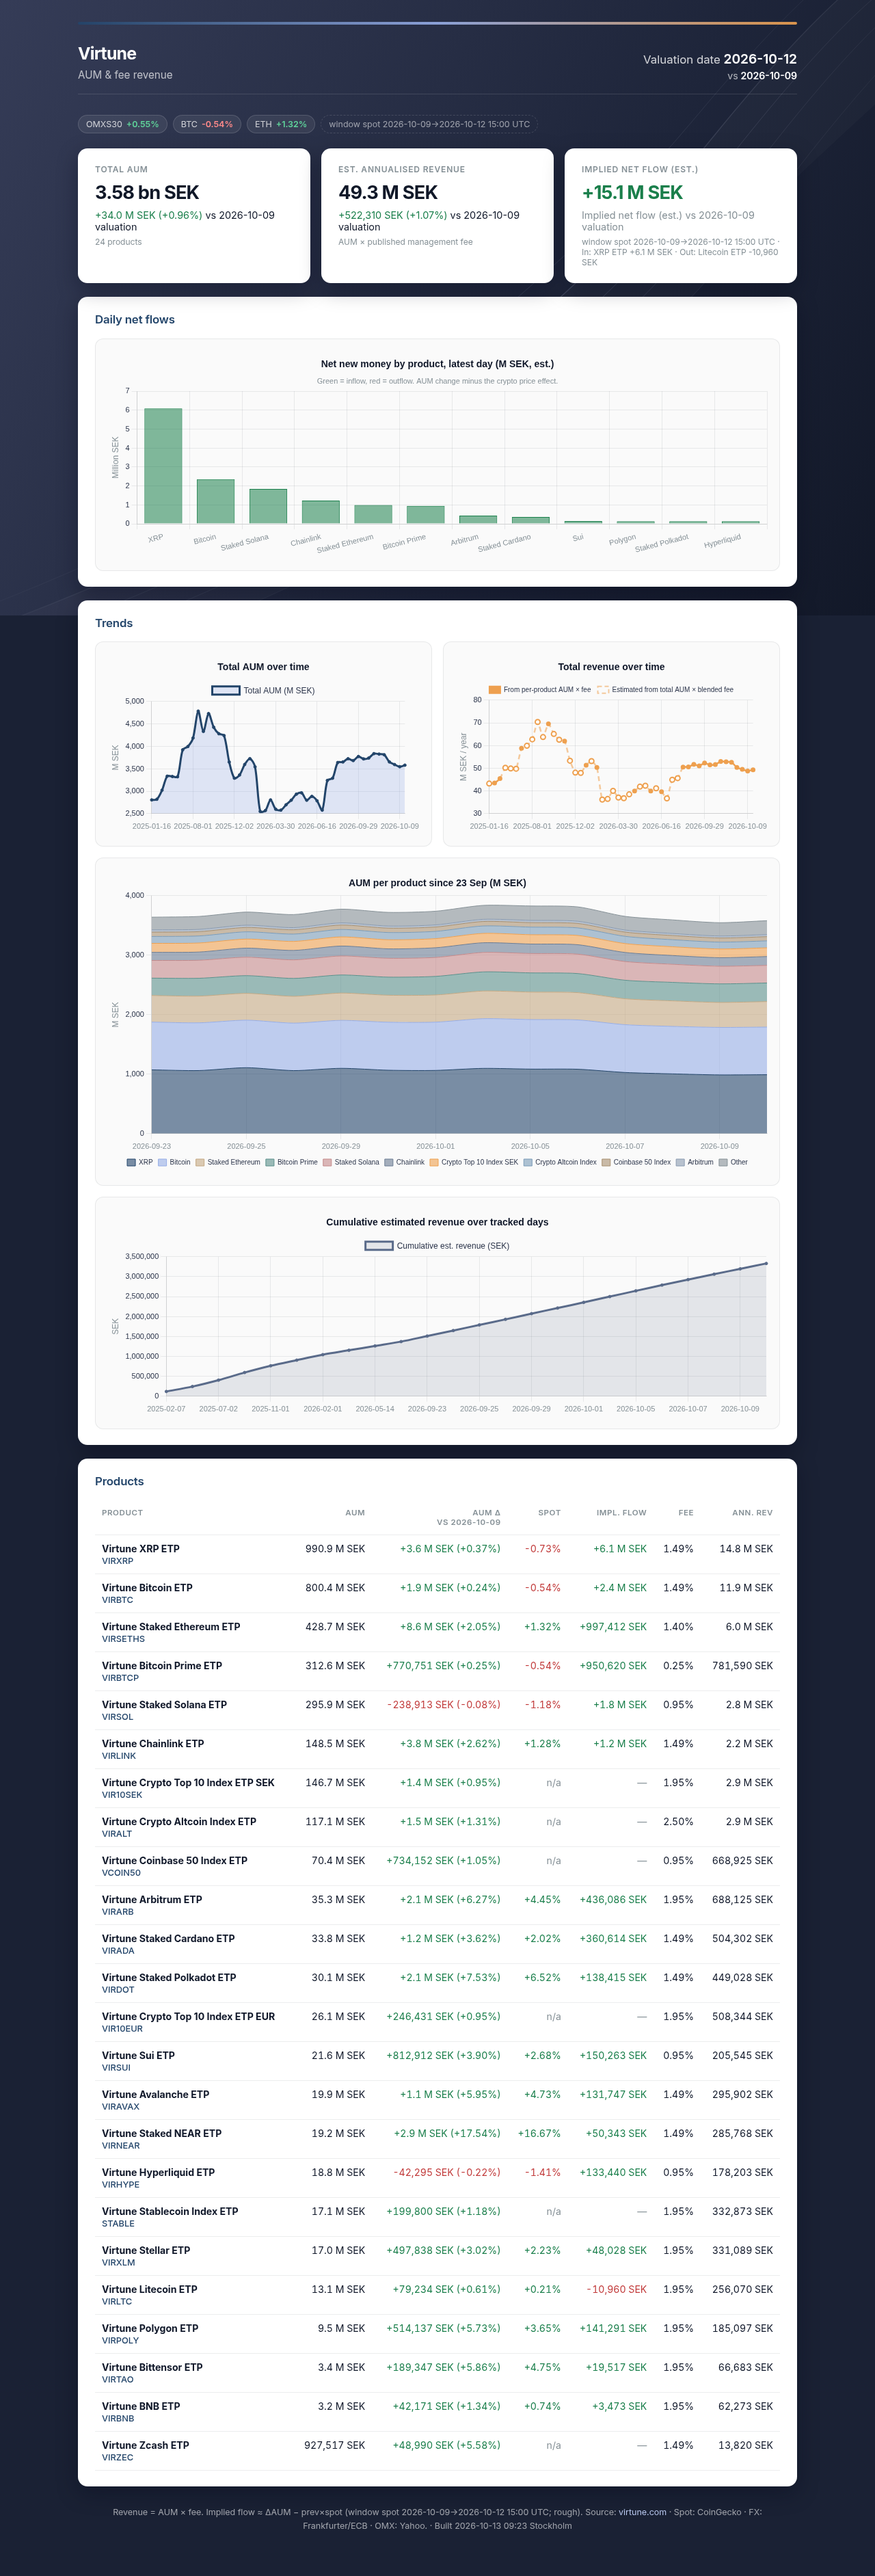
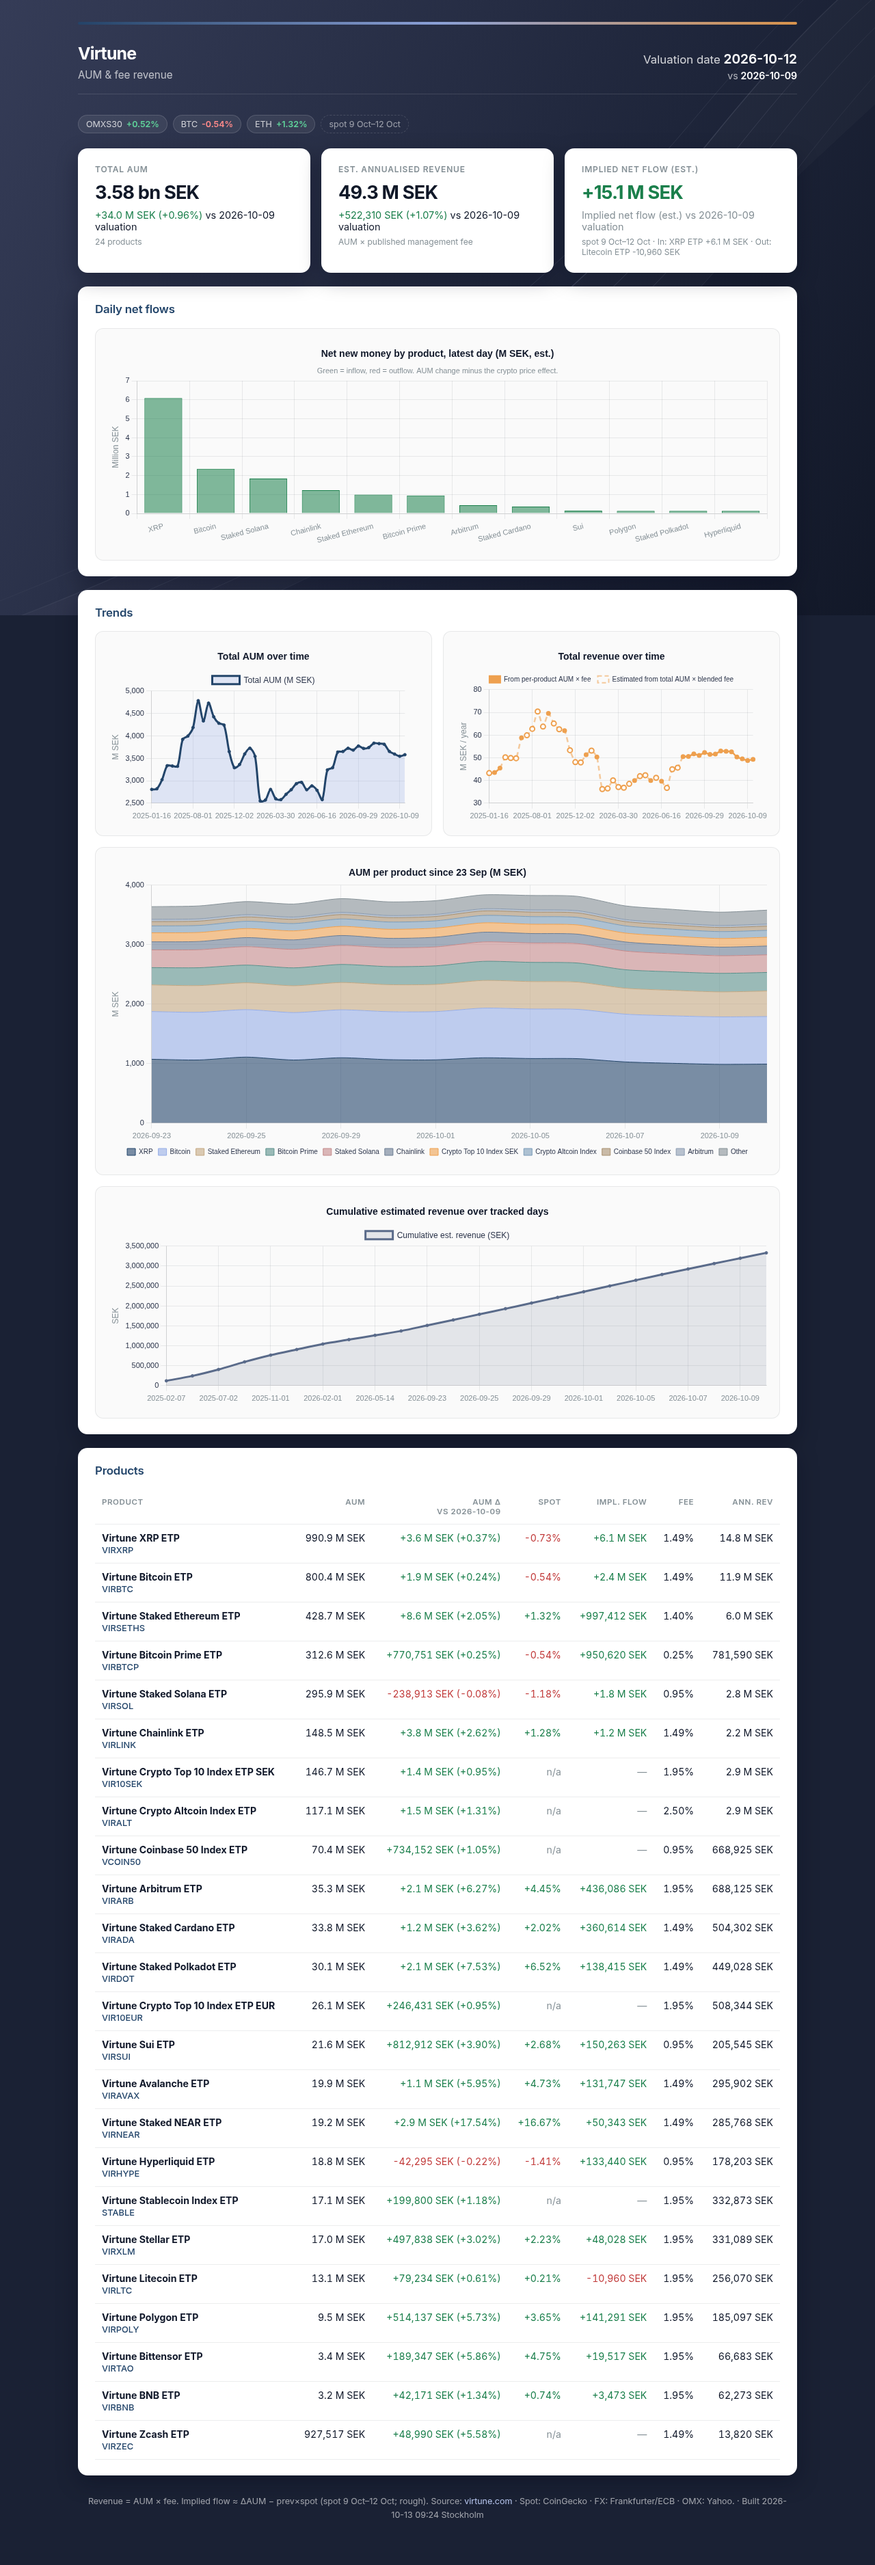
Update dashboard 2026-10-13 09:25 CEST

diff --git a/index.html b/index.html
@@ -253,7 +253,7 @@
     </div>
   </header>
 
-  <div class="market" title="Market context · spot is window spot 2026-10-09→2026-10-12 15:00 UTC"><span class="chip" title="Yahoo ^OMX">OMXS30 <strong class="up">+0.55%</strong></span><span class="chip" title="window spot 2026-10-09→2026-10-12 15:00 UTC">BTC <strong class="down">-0.54%</strong></span><span class="chip" title="window spot 2026-10-09→2026-10-12 15:00 UTC">ETH <strong class="up">+1.32%</strong></span><span class="chip muted spot-note">window spot 2026-10-09→2026-10-12 15:00 UTC</span></div>
+  <div class="market" title="Market context · spot is spot 9 Oct–12 Oct"><span class="chip" title="Yahoo ^OMX">OMXS30 <strong class="up">+0.52%</strong></span><span class="chip" title="spot 9 Oct–12 Oct">BTC <strong class="down">-0.54%</strong></span><span class="chip" title="spot 9 Oct–12 Oct">ETH <strong class="up">+1.32%</strong></span><span class="chip muted spot-note">spot 9 Oct–12 Oct</span></div>
 
   <div class="cards">
     <div class="card">
@@ -272,7 +272,7 @@
       <div class="label">Implied net flow (est.)</div>
       <div class="value"><span class="up">+15.1 M SEK</span></div>
       <div class="delta muted">Implied net flow (est.) vs 2026-10-09 valuation</div>
-      <div class="usd" style="margin-top:6px">window spot 2026-10-09→2026-10-12 15:00 UTC · In: XRP ETP +6.1 M SEK · Out: Litecoin ETP -10,960 SEK</div>
+      <div class="usd" style="margin-top:6px">spot 9 Oct–12 Oct · In: XRP ETP +6.1 M SEK · Out: Litecoin ETP -10,960 SEK</div>
     </div>
   </div>
 
@@ -304,7 +304,7 @@
             <th>Product</th>
             <th style="text-align:right">AUM</th>
             <th style="text-align:right">AUM Δ<br>vs 2026-10-09</th>
-            <th style="text-align:right" title="window spot 2026-10-09→2026-10-12 15:00 UTC">Spot</th>
+            <th style="text-align:right" title="spot 9 Oct–12 Oct">Spot</th>
             <th style="text-align:right" title="ΔAUM − prev×spot (est.)">Impl. flow</th>
             <th style="text-align:right">Fee</th>
             <th style="text-align:right">Ann. rev</th>
@@ -316,7 +316,7 @@
             <span class="ticker">VIRXRP</span></td>
           <td class="num">990.9 M<span class="unit"> SEK</span></td>
           <td class="num"><span class="up">+3.6 M<span class="unit"> SEK</span> (+0.37%)</span></td>
-          <td class="num" title="window spot 2026-10-09→2026-10-12 15:00 UTC"><span class="down">-0.73%</span></td>
+          <td class="num" title="spot 9 Oct–12 Oct"><span class="down">-0.73%</span></td>
           <td class="num"><span class="up" title="Implied net flow (est.)">+6.1 M<span class="unit"> SEK</span></span></td>
           <td class="num">1.49%</td>
           <td class="num">14.8 M<span class="unit"> SEK</span></td>
@@ -326,7 +326,7 @@
             <span class="ticker">VIRBTC</span></td>
           <td class="num">800.4 M<span class="unit"> SEK</span></td>
           <td class="num"><span class="up">+1.9 M<span class="unit"> SEK</span> (+0.24%)</span></td>
-          <td class="num" title="window spot 2026-10-09→2026-10-12 15:00 UTC"><span class="down">-0.54%</span></td>
+          <td class="num" title="spot 9 Oct–12 Oct"><span class="down">-0.54%</span></td>
           <td class="num"><span class="up" title="Implied net flow (est.)">+2.4 M<span class="unit"> SEK</span></span></td>
           <td class="num">1.49%</td>
           <td class="num">11.9 M<span class="unit"> SEK</span></td>
@@ -336,7 +336,7 @@
             <span class="ticker">VIRSETHS</span></td>
           <td class="num">428.7 M<span class="unit"> SEK</span></td>
           <td class="num"><span class="up">+8.6 M<span class="unit"> SEK</span> (+2.05%)</span></td>
-          <td class="num" title="window spot 2026-10-09→2026-10-12 15:00 UTC"><span class="up">+1.32%</span></td>
+          <td class="num" title="spot 9 Oct–12 Oct"><span class="up">+1.32%</span></td>
           <td class="num"><span class="up" title="Implied net flow (est.)">+997,412<span class="unit"> SEK</span></span></td>
           <td class="num">1.40%</td>
           <td class="num">6.0 M<span class="unit"> SEK</span></td>
@@ -346,7 +346,7 @@
             <span class="ticker">VIRBTCP</span></td>
           <td class="num">312.6 M<span class="unit"> SEK</span></td>
           <td class="num"><span class="up">+770,751<span class="unit"> SEK</span> (+0.25%)</span></td>
-          <td class="num" title="window spot 2026-10-09→2026-10-12 15:00 UTC"><span class="down">-0.54%</span></td>
+          <td class="num" title="spot 9 Oct–12 Oct"><span class="down">-0.54%</span></td>
           <td class="num"><span class="up" title="Implied net flow (est.)">+950,620<span class="unit"> SEK</span></span></td>
           <td class="num">0.25%</td>
           <td class="num">781,590<span class="unit"> SEK</span></td>
@@ -356,7 +356,7 @@
             <span class="ticker">VIRSOL</span></td>
           <td class="num">295.9 M<span class="unit"> SEK</span></td>
           <td class="num"><span class="down">-238,913<span class="unit"> SEK</span> (-0.08%)</span></td>
-          <td class="num" title="window spot 2026-10-09→2026-10-12 15:00 UTC"><span class="down">-1.18%</span></td>
+          <td class="num" title="spot 9 Oct–12 Oct"><span class="down">-1.18%</span></td>
           <td class="num"><span class="up" title="Implied net flow (est.)">+1.8 M<span class="unit"> SEK</span></span></td>
           <td class="num">0.95%</td>
           <td class="num">2.8 M<span class="unit"> SEK</span></td>
@@ -366,7 +366,7 @@
             <span class="ticker">VIRLINK</span></td>
           <td class="num">148.5 M<span class="unit"> SEK</span></td>
           <td class="num"><span class="up">+3.8 M<span class="unit"> SEK</span> (+2.62%)</span></td>
-          <td class="num" title="window spot 2026-10-09→2026-10-12 15:00 UTC"><span class="up">+1.28%</span></td>
+          <td class="num" title="spot 9 Oct–12 Oct"><span class="up">+1.28%</span></td>
           <td class="num"><span class="up" title="Implied net flow (est.)">+1.2 M<span class="unit"> SEK</span></span></td>
           <td class="num">1.49%</td>
           <td class="num">2.2 M<span class="unit"> SEK</span></td>
@@ -376,7 +376,7 @@
             <span class="ticker">VIR10SEK</span></td>
           <td class="num">146.7 M<span class="unit"> SEK</span></td>
           <td class="num"><span class="up">+1.4 M<span class="unit"> SEK</span> (+0.95%)</span></td>
-          <td class="num" title="window spot 2026-10-09→2026-10-12 15:00 UTC"><span class="muted" title="Index / multi-asset">n/a</span></td>
+          <td class="num" title="spot 9 Oct–12 Oct"><span class="muted" title="Index / multi-asset">n/a</span></td>
           <td class="num"><span class="muted">—</span></td>
           <td class="num">1.95%</td>
           <td class="num">2.9 M<span class="unit"> SEK</span></td>
@@ -386,7 +386,7 @@
             <span class="ticker">VIRALT</span></td>
           <td class="num">117.1 M<span class="unit"> SEK</span></td>
           <td class="num"><span class="up">+1.5 M<span class="unit"> SEK</span> (+1.31%)</span></td>
-          <td class="num" title="window spot 2026-10-09→2026-10-12 15:00 UTC"><span class="muted" title="Index / multi-asset">n/a</span></td>
+          <td class="num" title="spot 9 Oct–12 Oct"><span class="muted" title="Index / multi-asset">n/a</span></td>
           <td class="num"><span class="muted">—</span></td>
           <td class="num">2.50%</td>
           <td class="num">2.9 M<span class="unit"> SEK</span></td>
@@ -396,7 +396,7 @@
             <span class="ticker">VCOIN50</span></td>
           <td class="num">70.4 M<span class="unit"> SEK</span></td>
           <td class="num"><span class="up">+734,152<span class="unit"> SEK</span> (+1.05%)</span></td>
-          <td class="num" title="window spot 2026-10-09→2026-10-12 15:00 UTC"><span class="muted" title="Index / multi-asset">n/a</span></td>
+          <td class="num" title="spot 9 Oct–12 Oct"><span class="muted" title="Index / multi-asset">n/a</span></td>
           <td class="num"><span class="muted">—</span></td>
           <td class="num">0.95%</td>
           <td class="num">668,925<span class="unit"> SEK</span></td>
@@ -406,7 +406,7 @@
             <span class="ticker">VIRARB</span></td>
           <td class="num">35.3 M<span class="unit"> SEK</span></td>
           <td class="num"><span class="up">+2.1 M<span class="unit"> SEK</span> (+6.27%)</span></td>
-          <td class="num" title="window spot 2026-10-09→2026-10-12 15:00 UTC"><span class="up">+4.45%</span></td>
+          <td class="num" title="spot 9 Oct–12 Oct"><span class="up">+4.45%</span></td>
           <td class="num"><span class="up" title="Implied net flow (est.)">+436,086<span class="unit"> SEK</span></span></td>
           <td class="num">1.95%</td>
           <td class="num">688,125<span class="unit"> SEK</span></td>
@@ -416,7 +416,7 @@
             <span class="ticker">VIRADA</span></td>
           <td class="num">33.8 M<span class="unit"> SEK</span></td>
           <td class="num"><span class="up">+1.2 M<span class="unit"> SEK</span> (+3.62%)</span></td>
-          <td class="num" title="window spot 2026-10-09→2026-10-12 15:00 UTC"><span class="up">+2.02%</span></td>
+          <td class="num" title="spot 9 Oct–12 Oct"><span class="up">+2.02%</span></td>
           <td class="num"><span class="up" title="Implied net flow (est.)">+360,614<span class="unit"> SEK</span></span></td>
           <td class="num">1.49%</td>
           <td class="num">504,302<span class="unit"> SEK</span></td>
@@ -426,7 +426,7 @@
             <span class="ticker">VIRDOT</span></td>
           <td class="num">30.1 M<span class="unit"> SEK</span></td>
           <td class="num"><span class="up">+2.1 M<span class="unit"> SEK</span> (+7.53%)</span></td>
-          <td class="num" title="window spot 2026-10-09→2026-10-12 15:00 UTC"><span class="up">+6.52%</span></td>
+          <td class="num" title="spot 9 Oct–12 Oct"><span class="up">+6.52%</span></td>
           <td class="num"><span class="up" title="Implied net flow (est.)">+138,415<span class="unit"> SEK</span></span></td>
           <td class="num">1.49%</td>
           <td class="num">449,028<span class="unit"> SEK</span></td>
@@ -436,7 +436,7 @@
             <span class="ticker">VIR10EUR</span></td>
           <td class="num">26.1 M<span class="unit"> SEK</span></td>
           <td class="num"><span class="up">+246,431<span class="unit"> SEK</span> (+0.95%)</span></td>
-          <td class="num" title="window spot 2026-10-09→2026-10-12 15:00 UTC"><span class="muted" title="Index / multi-asset">n/a</span></td>
+          <td class="num" title="spot 9 Oct–12 Oct"><span class="muted" title="Index / multi-asset">n/a</span></td>
           <td class="num"><span class="muted">—</span></td>
           <td class="num">1.95%</td>
           <td class="num">508,344<span class="unit"> SEK</span></td>
@@ -446,7 +446,7 @@
             <span class="ticker">VIRSUI</span></td>
           <td class="num">21.6 M<span class="unit"> SEK</span></td>
           <td class="num"><span class="up">+812,912<span class="unit"> SEK</span> (+3.90%)</span></td>
-          <td class="num" title="window spot 2026-10-09→2026-10-12 15:00 UTC"><span class="up">+2.68%</span></td>
+          <td class="num" title="spot 9 Oct–12 Oct"><span class="up">+2.68%</span></td>
           <td class="num"><span class="up" title="Implied net flow (est.)">+150,263<span class="unit"> SEK</span></span></td>
           <td class="num">0.95%</td>
           <td class="num">205,545<span class="unit"> SEK</span></td>
@@ -456,7 +456,7 @@
             <span class="ticker">VIRAVAX</span></td>
           <td class="num">19.9 M<span class="unit"> SEK</span></td>
           <td class="num"><span class="up">+1.1 M<span class="unit"> SEK</span> (+5.95%)</span></td>
-          <td class="num" title="window spot 2026-10-09→2026-10-12 15:00 UTC"><span class="up">+4.73%</span></td>
+          <td class="num" title="spot 9 Oct–12 Oct"><span class="up">+4.73%</span></td>
           <td class="num"><span class="up" title="Implied net flow (est.)">+131,747<span class="unit"> SEK</span></span></td>
           <td class="num">1.49%</td>
           <td class="num">295,902<span class="unit"> SEK</span></td>
@@ -466,7 +466,7 @@
             <span class="ticker">VIRNEAR</span></td>
           <td class="num">19.2 M<span class="unit"> SEK</span></td>
           <td class="num"><span class="up">+2.9 M<span class="unit"> SEK</span> (+17.54%)</span></td>
-          <td class="num" title="window spot 2026-10-09→2026-10-12 15:00 UTC"><span class="up">+16.67%</span></td>
+          <td class="num" title="spot 9 Oct–12 Oct"><span class="up">+16.67%</span></td>
           <td class="num"><span class="up" title="Implied net flow (est.)">+50,343<span class="unit"> SEK</span></span></td>
           <td class="num">1.49%</td>
           <td class="num">285,768<span class="unit"> SEK</span></td>
@@ -476,7 +476,7 @@
             <span class="ticker">VIRHYPE</span></td>
           <td class="num">18.8 M<span class="unit"> SEK</span></td>
           <td class="num"><span class="down">-42,295<span class="unit"> SEK</span> (-0.22%)</span></td>
-          <td class="num" title="window spot 2026-10-09→2026-10-12 15:00 UTC"><span class="down">-1.41%</span></td>
+          <td class="num" title="spot 9 Oct–12 Oct"><span class="down">-1.41%</span></td>
           <td class="num"><span class="up" title="Implied net flow (est.)">+133,440<span class="unit"> SEK</span></span></td>
           <td class="num">0.95%</td>
           <td class="num">178,203<span class="unit"> SEK</span></td>
@@ -486,7 +486,7 @@
             <span class="ticker">STABLE</span></td>
           <td class="num">17.1 M<span class="unit"> SEK</span></td>
           <td class="num"><span class="up">+199,800<span class="unit"> SEK</span> (+1.18%)</span></td>
-          <td class="num" title="window spot 2026-10-09→2026-10-12 15:00 UTC"><span class="muted" title="Index / multi-asset">n/a</span></td>
+          <td class="num" title="spot 9 Oct–12 Oct"><span class="muted" title="Index / multi-asset">n/a</span></td>
           <td class="num"><span class="muted">—</span></td>
           <td class="num">1.95%</td>
           <td class="num">332,873<span class="unit"> SEK</span></td>
@@ -496,7 +496,7 @@
             <span class="ticker">VIRXLM</span></td>
           <td class="num">17.0 M<span class="unit"> SEK</span></td>
           <td class="num"><span class="up">+497,838<span class="unit"> SEK</span> (+3.02%)</span></td>
-          <td class="num" title="window spot 2026-10-09→2026-10-12 15:00 UTC"><span class="up">+2.23%</span></td>
+          <td class="num" title="spot 9 Oct–12 Oct"><span class="up">+2.23%</span></td>
           <td class="num"><span class="up" title="Implied net flow (est.)">+48,028<span class="unit"> SEK</span></span></td>
           <td class="num">1.95%</td>
           <td class="num">331,089<span class="unit"> SEK</span></td>
@@ -506,7 +506,7 @@
             <span class="ticker">VIRLTC</span></td>
           <td class="num">13.1 M<span class="unit"> SEK</span></td>
           <td class="num"><span class="up">+79,234<span class="unit"> SEK</span> (+0.61%)</span></td>
-          <td class="num" title="window spot 2026-10-09→2026-10-12 15:00 UTC"><span class="up">+0.21%</span></td>
+          <td class="num" title="spot 9 Oct–12 Oct"><span class="up">+0.21%</span></td>
           <td class="num"><span class="down" title="Implied net flow (est.)">-10,960<span class="unit"> SEK</span></span></td>
           <td class="num">1.95%</td>
           <td class="num">256,070<span class="unit"> SEK</span></td>
@@ -516,7 +516,7 @@
             <span class="ticker">VIRPOLY</span></td>
           <td class="num">9.5 M<span class="unit"> SEK</span></td>
           <td class="num"><span class="up">+514,137<span class="unit"> SEK</span> (+5.73%)</span></td>
-          <td class="num" title="window spot 2026-10-09→2026-10-12 15:00 UTC"><span class="up">+3.65%</span></td>
+          <td class="num" title="spot 9 Oct–12 Oct"><span class="up">+3.65%</span></td>
           <td class="num"><span class="up" title="Implied net flow (est.)">+141,291<span class="unit"> SEK</span></span></td>
           <td class="num">1.95%</td>
           <td class="num">185,097<span class="unit"> SEK</span></td>
@@ -526,7 +526,7 @@
             <span class="ticker">VIRTAO</span></td>
           <td class="num">3.4 M<span class="unit"> SEK</span></td>
           <td class="num"><span class="up">+189,347<span class="unit"> SEK</span> (+5.86%)</span></td>
-          <td class="num" title="window spot 2026-10-09→2026-10-12 15:00 UTC"><span class="up">+4.75%</span></td>
+          <td class="num" title="spot 9 Oct–12 Oct"><span class="up">+4.75%</span></td>
           <td class="num"><span class="up" title="Implied net flow (est.)">+19,517<span class="unit"> SEK</span></span></td>
           <td class="num">1.95%</td>
           <td class="num">66,683<span class="unit"> SEK</span></td>
@@ -536,7 +536,7 @@
             <span class="ticker">VIRBNB</span></td>
           <td class="num">3.2 M<span class="unit"> SEK</span></td>
           <td class="num"><span class="up">+42,171<span class="unit"> SEK</span> (+1.34%)</span></td>
-          <td class="num" title="window spot 2026-10-09→2026-10-12 15:00 UTC"><span class="up">+0.74%</span></td>
+          <td class="num" title="spot 9 Oct–12 Oct"><span class="up">+0.74%</span></td>
           <td class="num"><span class="up" title="Implied net flow (est.)">+3,473<span class="unit"> SEK</span></span></td>
           <td class="num">1.95%</td>
           <td class="num">62,273<span class="unit"> SEK</span></td>
@@ -546,7 +546,7 @@
             <span class="ticker">VIRZEC</span></td>
           <td class="num">927,517<span class="unit"> SEK</span></td>
           <td class="num"><span class="up">+48,990<span class="unit"> SEK</span> (+5.58%)</span></td>
-          <td class="num" title="window spot 2026-10-09→2026-10-12 15:00 UTC"><span class="muted" title="Index / multi-asset">n/a</span></td>
+          <td class="num" title="spot 9 Oct–12 Oct"><span class="muted" title="Index / multi-asset">n/a</span></td>
           <td class="num"><span class="muted">—</span></td>
           <td class="num">1.49%</td>
           <td class="num">13,820<span class="unit"> SEK</span></td>
@@ -556,10 +556,10 @@
   </section>
 
   <footer>
-    Revenue = AUM × fee. Implied flow ≈ ΔAUM − prev×spot (window spot 2026-10-09→2026-10-12 15:00 UTC; rough).
+    Revenue = AUM × fee. Implied flow ≈ ΔAUM − prev×spot (spot 9 Oct–12 Oct; rough).
     Source: <a href="https://www.virtune.com" rel="noopener">virtune.com</a>
     · Spot: CoinGecko · FX: Frankfurter/ECB · OMX: Yahoo.
-    · Built 2026-10-13 09:23 Stockholm
+    · Built 2026-10-13 09:24 Stockholm
   </footer>
 </div>
 <script>
